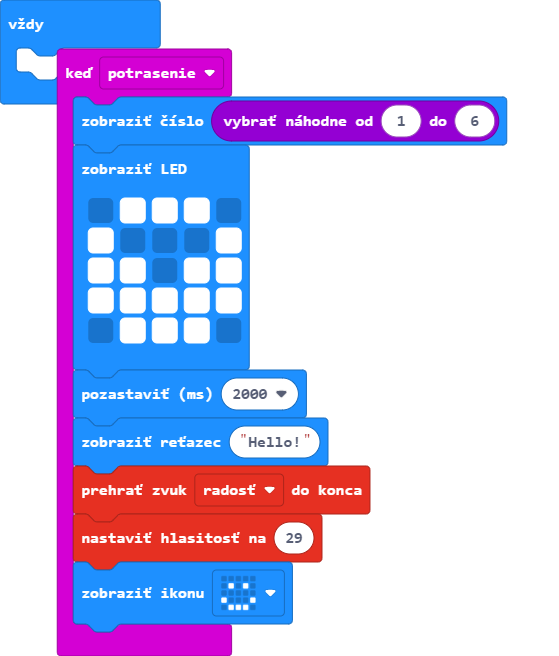
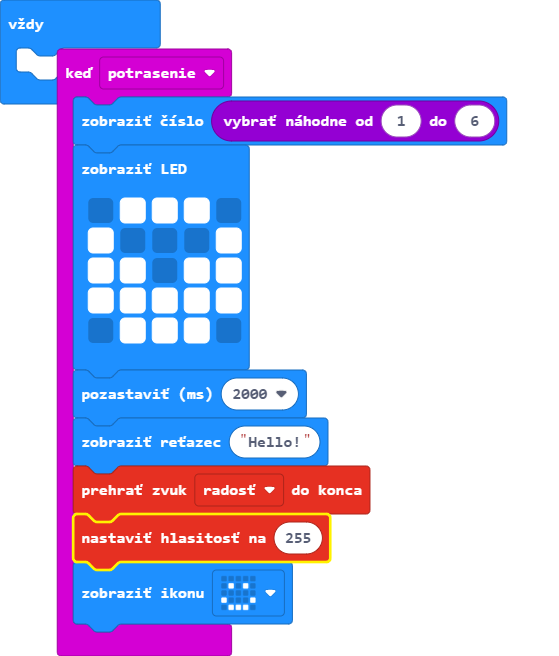
Aktualizovať main.blocks, main.ts

Changed region(s): [[0.1216, 0.7622, 0.6082, 0.8841]]

diff --git a/main.ts b/main.ts
@@ -10,7 +10,7 @@ input.onGesture(Gesture.Shake, function () {
     basic.pause(2000)
     basic.showString("Hello!")
     soundExpression.happy.playUntilDone()
-    music.setVolume(29)
+    music.setVolume(255)
     basic.showIcon(IconNames.Happy)
 })
 basic.forever(function () {
